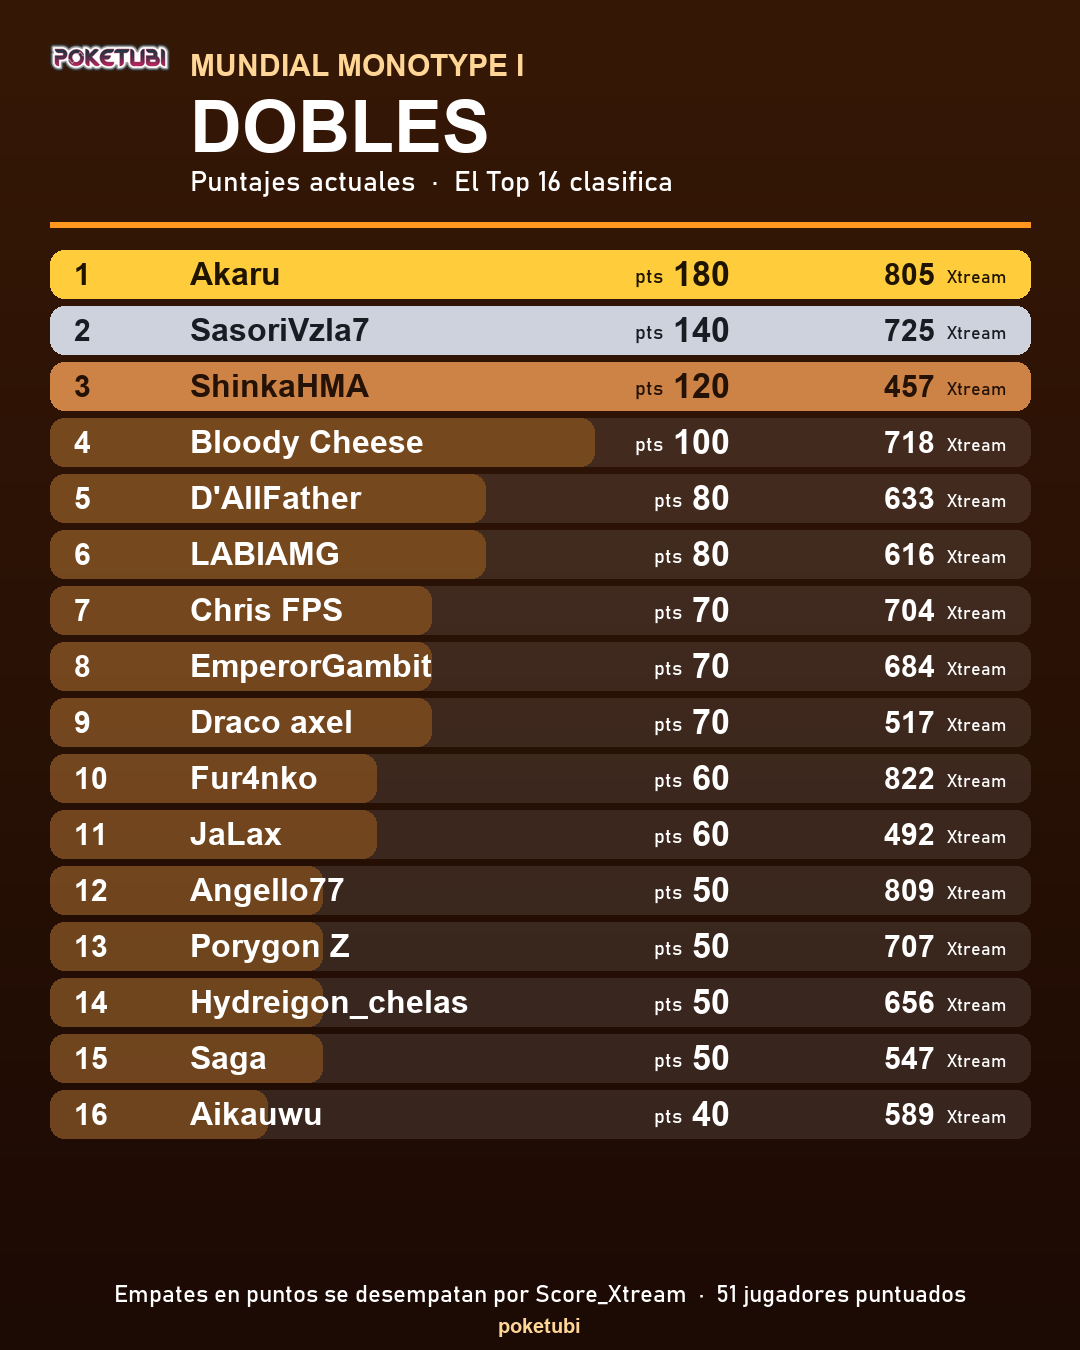
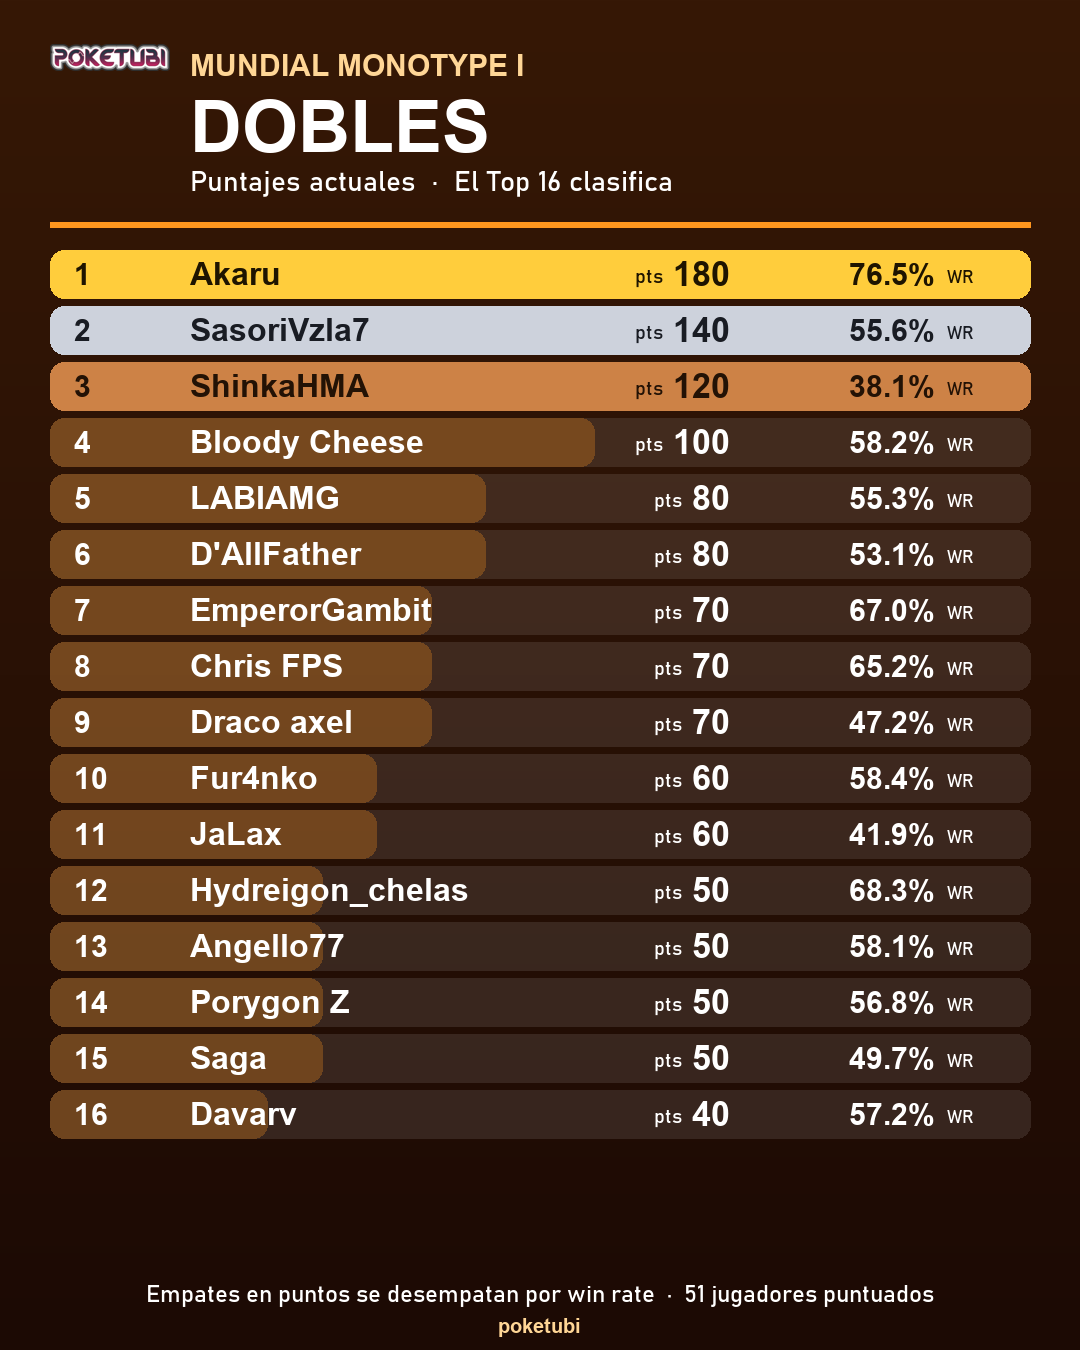
Rankings Monotype I: desempate y columna por win rate

diff --git a/generar_ranking_monotype_png.py b/generar_ranking_monotype_png.py
@@ -45,10 +45,10 @@ def _gradiente(c1, c2):
 
 
 def _score_xtream():
-    """Score_Xtream por jugador (minusculas), usado solo para desempatar."""
+    """Win rate % por jugador (minusculas), usado solo para desempatar."""
     try:
         d = pd.read_csv("data/score_xtream.csv", sep=";", encoding="utf-8-sig")
-        return {str(j).strip().lower(): float(v) for j, v in zip(d["Jugador"], d["Score_Xtream"])}
+        return {str(j).strip().lower(): float(v) for j, v in zip(d["Jugador"], d["Win rate %"])}
     except Exception:
         return {}
 
@@ -59,7 +59,7 @@ def _ranking(df_raw):
     sx = _score_xtream()
     out = {}
     for fmt, pts in rankings.items():
-        # mismos puntos -> gana el de mayor Score_Xtream (luego orden alfabetico); sin empates en la tabla
+        # mismos puntos -> gana el de mayor win rate (luego orden alfabetico); sin empates en la tabla
         orden = sorted(pts.items(), key=lambda kv: (-kv[1], -sx.get(kv[0].strip().lower(), 0.0), kv[0].lower()))
         out[fmt] = [(i, jug, p, sx.get(jug.strip().lower())) for i, (jug, p) in enumerate(orden, 1)]
     return out
@@ -108,15 +108,15 @@ def dibujar(fmt, filas):
         d.text((74, cy), f"{rank}", font=_f(30, True), fill=texto_c, anchor="lm")
         nombre = _texto_ajustado(d, jug, _f(32, True), 400)
         d.text((190, cy), nombre, font=_f(32, True), fill=texto_c, anchor="lm")
-        # puntos del Mundial primero, luego el Score_Xtream (desempate)
+        # puntos del Mundial primero, luego el win rate (desempate)
         d.text((730, cy), f"{pts}", font=_f(34, True), fill=texto_c, anchor="rm")
         d.text((730 - d.textlength(str(pts), font=_f(34, True)) - 10, cy + 3), "pts",
                font=_f(20), fill=texto_c, anchor="rm")
-        sx_txt = f"{sxv:.0f}" if sxv is not None else "-"
+        sx_txt = f"{sxv:.1f}%" if sxv is not None else "-"
         d.text((935, cy), sx_txt, font=_f(30, True), fill=texto_c, anchor="rm")
-        d.text((947, cy + 3), "Xtream", font=_f(18), fill=texto_c, anchor="lm")
+        d.text((947, cy + 3), "WR", font=_f(18), fill=texto_c, anchor="lm")
 
-    pie = f"Empates en puntos se desempatan por Score_Xtream  ·  {len(filas)} jugadores puntuados"
+    pie = f"Empates en puntos se desempatan por win rate  ·  {len(filas)} jugadores puntuados"
     d.text((ANCHO // 2, ALTO - 56), pie, font=_f(24), fill=(255, 255, 255, 170), anchor="mm")
     d.text((ANCHO // 2, ALTO - 24), "poketubi", font=_f(20, True), fill=claro, anchor="mm")
     return img
